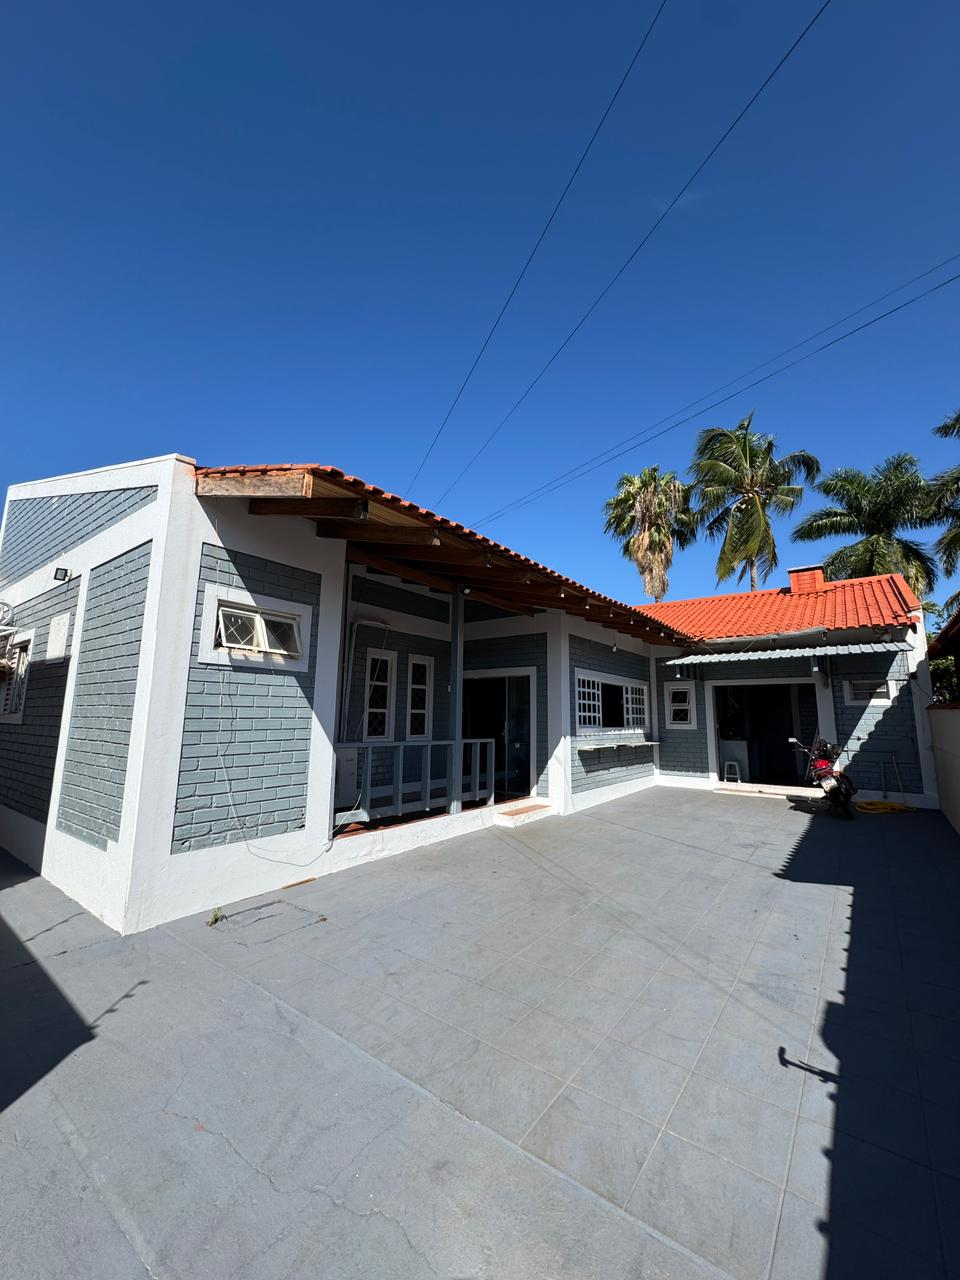
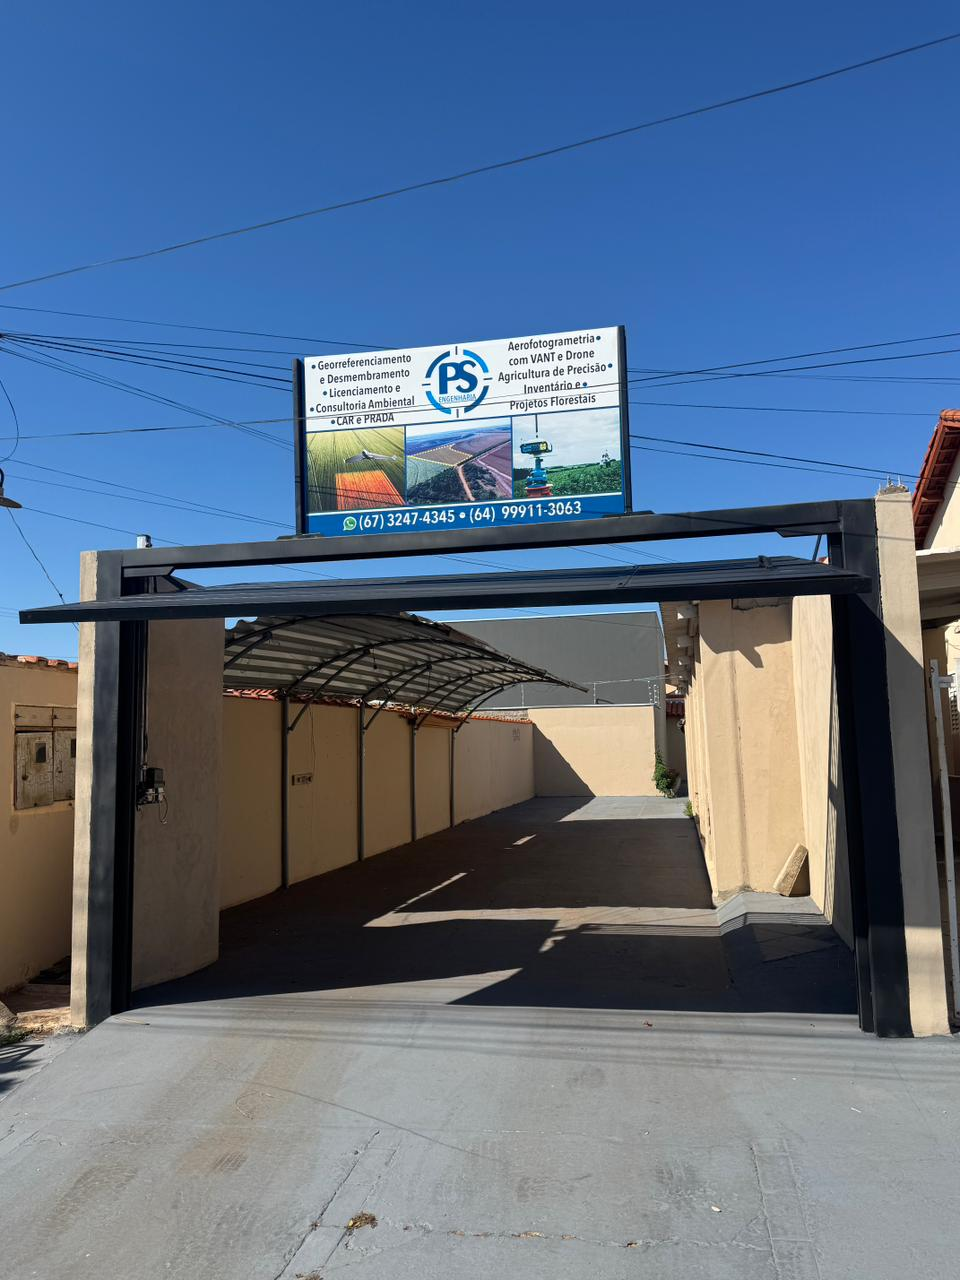
fachada trocada com interior

diff --git a/index.html b/index.html
@@ -931,8 +931,8 @@
         </div>
     </div>
 </div>
-    <!-- Vendas -->
-   <div id="vendas" class="tab-content">
+  <!-- Vendas -->
+<div id="vendas" class="tab-content">
     <h2 style="text-align: center; margin-bottom: 40px; color: var(--azul-escuro); position: relative; padding-bottom: 15px;">
         Nossas Oportunidades de Venda
         <span style="position: absolute; bottom: 0; left: 50%; transform: translateX(-50%); width: 80px; height: 3px; background: var(--azul);"></span>
@@ -955,11 +955,11 @@
                 <li>Regularização ambiental garantida</li>
                 <li>Processo de transferência ágil</li>
             </ul>
-            <a href="#contato" class="btn-destaque" style="background: var(--azul); border-color: var(--azul); padding: 8px 20px; font-size: 14px;">Consultar Disponibilidade</a>
+            <a href="https://wa.me/556732474345?text=Ol%C3%A1%2C%20gostaria%20de%20saber%20mais%20sobre%20as%20cotas%20de%20reposi%C3%A7%C3%A3o%20florestal%20dispon%C3%ADveis%20na%20PS%20Engenharia." class="btn-destaque" style="background: var(--azul); border-color: var(--azul); padding: 8px 20px; font-size: 14px;">Consultar Disponibilidade</a>
         </div>
         
         <!-- Categoria 2: Florestas -->
-              <div class="vantagem-card" style="background: linear-gradient(135deg, rgba(46,204,113,0.1) 0%, rgba(34,153,84,0.1) 100%); border: 1px solid var(--verde);">
+        <div class="vantagem-card" style="background: linear-gradient(135deg, rgba(46,204,113,0.1) 0%, rgba(34,153,84,0.1) 100%); border: 1px solid var(--verde);">
             <div class="vantagem-icon" style="color: var(--verde);">
                 <i class="fas fa-seedling"></i>
             </div>
@@ -970,7 +970,7 @@
                 <li>Áreas de mata nativa preservada</li>
                 <li>Potencial madeireiro e carbonífero</li>
             </ul>
-            <a href="#contato" class="btn-destaque" style="background: var(--verde); border-color: var(--verde); padding: 8px 20px; font-size: 14px;">Ver Ofertas</a>
+            <a href="https://wa.me/556732474345?text=Ol%C3%A1%2C%20gostaria%20de%20saber%20detalhes%20sobre%20as%20florestas%20e%20ativos%20florestais%20dispon%C3%ADveis%20para%20investimento%20na%20PS%20Engenharia." class="btn-destaque" style="background: var(--verde); border-color: var(--verde); padding: 8px 20px; font-size: 14px;">Ver Ofertas</a>
         </div>
         
         <!-- Categoria 3: Fazendas -->
@@ -985,7 +985,7 @@
                 <li>Áreas para implantação de florestas</li>
                 <li>Propriedades com infraestrutura agrícola</li>
             </ul>
-            <a href="#contato" class="btn-destaque" style="background: var(--azul-escuro); border-color: var(--azul-escuro); padding: 8px 20px; font-size: 14px;">Conhecer Oportunidades</a>
+            <a href="https://wa.me/556732474345?text=Ol%C3%A1%2C%20gostaria%20de%20saber%20mais%20sobre%20as%20fazendas%20dispon%C3%ADveis%20para%20venda%20na%20PS%20Engenharia." class="btn-destaque" style="background: var(--azul-escuro); border-color: var(--azul-escuro); padding: 8px 20px; font-size: 14px;">Conhecer Oportunidades</a>
         </div>
     </div>
     
@@ -993,7 +993,7 @@
     <div class="destaque" style="margin-top: 50px; background: linear-gradient(135deg, var(--azul-escuro) 0%, var(--azul) 100%);">
         <h2>Interessado em Nossas Oportunidades?</h2>
         <p style="max-width: 700px;">Temos um portfólio exclusivo de propriedades e ativos florestais. Entre em contato para receber informações detalhadas sobre as melhores oportunidades de investimento no setor.</p>
-        <a href="#contato" class="btn-destaque" style="background: white; color: var(--azul); border-color: white;">Falar com Especialista</a>
+        <a href="https://wa.me/556732474345?text=Ol%C3%A1%2C%20estou%20interessado(a)%20nas%20oportunidades%20de%20venda%20da%20PS%20Engenharia.%20Poderia%20me%20fornecer%20mais%20detalhes%3F" class="btn-destaque" style="background: white; color: var(--azul); border-color: white;">Falar com Especialista</a>
     </div>
 </div>
 
@@ -1046,7 +1046,6 @@
     }
 </style>
 <!-- Notícias -->
-<!-- Seção de Notícias -->
 <div id="noticias" class="tab-content">
     <h2 style="text-align: center; margin-bottom: 20px; color: var(--azul-escuro); position: relative; padding-bottom: 15px;">
         Notícias Ambientais e Atualizações
@@ -1055,7 +1054,7 @@
 
     <!-- Container -->
     <div id="rss-noticias" style="max-width: 1000px; margin: 0 auto; display: flex; flex-direction: column; gap: 25px; padding: 20px;">
-        <!-- Notícia FIXA da PS Engenharia (Mudança de Endereço) -->
+        <!-- Notícia Fixa da PS Engenharia (Mudança de Endereço) -->
         <div style="background: white; border-radius: 8px; padding: 20px; box-shadow: 0 2px 10px rgba(0,0,0,0.1);">
             <div style="display: flex; align-items: center; gap: 10px; margin-bottom: 10px;">
                 <i class="fas fa-map-marker-alt" style="color: #012a4b;"></i>
@@ -1069,30 +1068,59 @@
                 Estamos em novo endereço! Agora nosso escritório fica na <strong>Rua Josina Garcia de Melo, nº 427, Centro - Costa Rica/MS</strong>.
                 Venha nos visitar em nossas novas instalações!
             </p>
-            <a href="#contato" style="color: var(--azul); font-weight: 500; text-decoration: none;">
-                Ver mapa <i class="fas fa-arrow-right"></i>
-            </a>
+            <a href="https://wa.me/556732474345?text=Ol%C3%A1%2C%20gostaria%20de%20saber%20sobre%20o%20novo%20endere%C3%A7o%20da%20PS%20Engenharia.%20Voc%C3%AA%20pode%20me%20ajudar%3F" style="color: var(--azul); font-weight: 500; text-decoration: none;">Ver no WhatsApp <i class="fas fa-arrow-right"></i></a>
         </div>
 
-        <!-- NOTÍCIA FIXA DE ALERTA REGULATÓRIO (NOVA RESOLUÇÃO) -->
+        <!-- Notícia Fixa de Alerta Regulatório -->
         <div style="background: white; border-radius: 8px; padding: 20px; box-shadow: 0 2px 10px rgba(0,0,0,0.1); margin-bottom: 25px;">
             <div style="display: flex; align-items: center; gap: 10px; margin-bottom: 10px;">
-                <i class="fas fa-gavel" style="color: #012a4b;"></i> <!-- Ícone de martelo para legislação -->
+                <i class="fas fa-gavel" style="color: #012a4b;"></i>
                 <span style="font-weight: 500; color: #012a4b;">Alerta Regulatório</span>
                 <span style="margin-left: auto; font-size: 14px; color: #666;">
-                    <i class="far fa-calendar-alt"></i> 02 de dezembro de 2025
+                    <i class="far fa-calendar-alt"></i> 2 de dezembro de 2025
                 </span>
             </div>
-            <h3 style="color: var(--azul-escuro); margin-bottom: 10px;">Nova Resolução Conjunta SEMADESC/IAGRO/IMASUL N. 003/2025: Sua Propriedade está em conformidade?</h3>
+            <h3 style="color: var(--azul-escuro); margin-bottom: 10px;">Nova Resolução Conjunta SEMADESC/IAGRO/IMASUL N. 003/2025</h3>
             <p style="color: #666; margin-bottom: 15px;">
-                A recente Resolução Conjunta SEMADESC/IAGRO/IMASUL N. 003/2025 no Mato Grosso do Sul estabelece novas diretrizes para o cadastro e monitoramento florestal obrigatório de florestas plantadas e reflorestamento. Nossa equipe é especialista em reposição florestal, adequação aos prazos de cadastramento (até 31 de Março de 2027, com escalonamento) e no monitoramento fitossanitário exigido, garantindo que sua propriedade evite penalidades e otimize a produtividade florestal.
+                A recente Resolução estabelece diretrizes para cadastro e monitoramento florestal obrigatório. Evite multas ou penalidades!
             </p>
-            <a href="#servicos" style="color: var(--azul); font-weight: 500; text-decoration: none;">
-                Saiba como podemos ajudar a evitar multas e garantir a conformidade <i class="fas fa-arrow-right"></i>
-            </a>
+            <a href="https://wa.me/556732474345?text=Ol%C3%A1%2C%20gostaria%20de%20saber%20mais%20sobre%20a%20Resolu%C3%A7%C3%A3o%20Conjunta%20SEMADESC%2FIAGRO%2FIMASUL%20n%C2%BA%20003%2F2025.%20Poderia%20me%20fornecer%20detalhes%3F" style="color: var(--azul); font-weight: 500; text-decoration: none;">Fale pelo WhatsApp <i class="fas fa-arrow-right"></i></a>
         </div>
 
-        <!-- Notícias Dinâmicas (carregadas via JavaScript) -->
+        <!-- Notícia Dinâmica: IAGRO e IMASUL -->
+        <div style="background: white; border-radius: 8px; padding: 20px; box-shadow: 0 2px 10px rgba(0,0,0,0.1); margin-bottom: 25px;">
+            <div style="display: flex; align-items: center; gap: 10px; margin-bottom: 10px;">
+                <i class="fas fa-balance-scale" style="color: #007bff;"></i>
+                <span style="font-weight: 500; color: #007bff;">SEMADESC/IAGRO/IMASUL</span>
+                <span style="margin-left: auto; font-size: 14px; color: #666;">
+                    <i class="far fa-calendar-alt"></i> 5 de dezembro de 2025
+                </span>
+            </div>
+            <h3 style="color: var(--azul-escuro); margin-bottom: 10px;">IAGRO e IMASUL intensificam fiscalização em MS</h3>
+            <p style="color: #666; margin-bottom: 15px;">
+                Fique atento: agora o monitoramento de florestas plantadas tem novas exigências. Saiba como se adequar.
+            </p>
+            <a href="https://wa.me/556732474345?text=Ol%C3%A1%2C%20preciso%20de%20ajuda%20para%20me%20adequar%20%C3%A0s%20novas%20fiscaliza%C3%A7%C3%B5es%20do%20IAGRO%20e%20IMASUL.%20Poderia%20me%20informar%20os%20procedimentos%20necess%C3%A1rios%3F" style="color: var(--azul); font-weight: 500; text-decoration: none;">Adequar-se pelo WhatsApp <i class="fas fa-arrow-right"></i></a>
+        </div>
+
+        <!-- Notícia Dinâmica: Monitoramento Fitossanitário -->
+        <div style="background: white; border-radius: 8px; padding: 20px; box-shadow: 0 2px 10px rgba(0,0,0,0.1); margin-bottom: 25px;">
+            <div style="display: flex; align-items: center; gap: 10px; margin-bottom: 10px;">
+                <i class="fas fa-shield-alt" style="color: #2ecc71;"></i>
+                <span style="font-weight: 500; color: #2ecc71;">PS Engenharia</span>
+                <span style="margin-left: auto; font-size: 14px; color: #666;">
+                    <i class="far fa-calendar-alt"></i> 28 de novembro de 2025
+                </span>
+            </div>
+            <h3 style="color: var(--azul-escuro); margin-bottom: 10px;">Guia de Monitoramento Fitossanitário no MS</h3>
+            <p style="color: #666; margin-bottom: 15px;">
+                Descubra as melhores práticas e mantenha suas florestas protegidas contra pragas e riscos ambientais.
+            </p>
+            <a href="https://wa.me/556732474345?text=Ol%C3%A1%2C%20gostaria%20de%20obter%20o%20guia%20completo%20de%20monitoramento%20fitossanit%C3%A1rio%20da%20PS%20Engenharia.%20Voc%C3%AA%20pode%20me%20ajudar%3F" style="color: var(--azul); font-weight: 500; text-decoration: none;">Pedir guia via WhatsApp <i class="fas fa-arrow-right"></i></a>
+        </div>
+    </div>
+</div>
+ <!-- Notícias Dinâmicas (carregadas via JavaScript) -->
         <div id="noticias-api">
             <!-- Carregadas via JavaScript -->
         </div>
